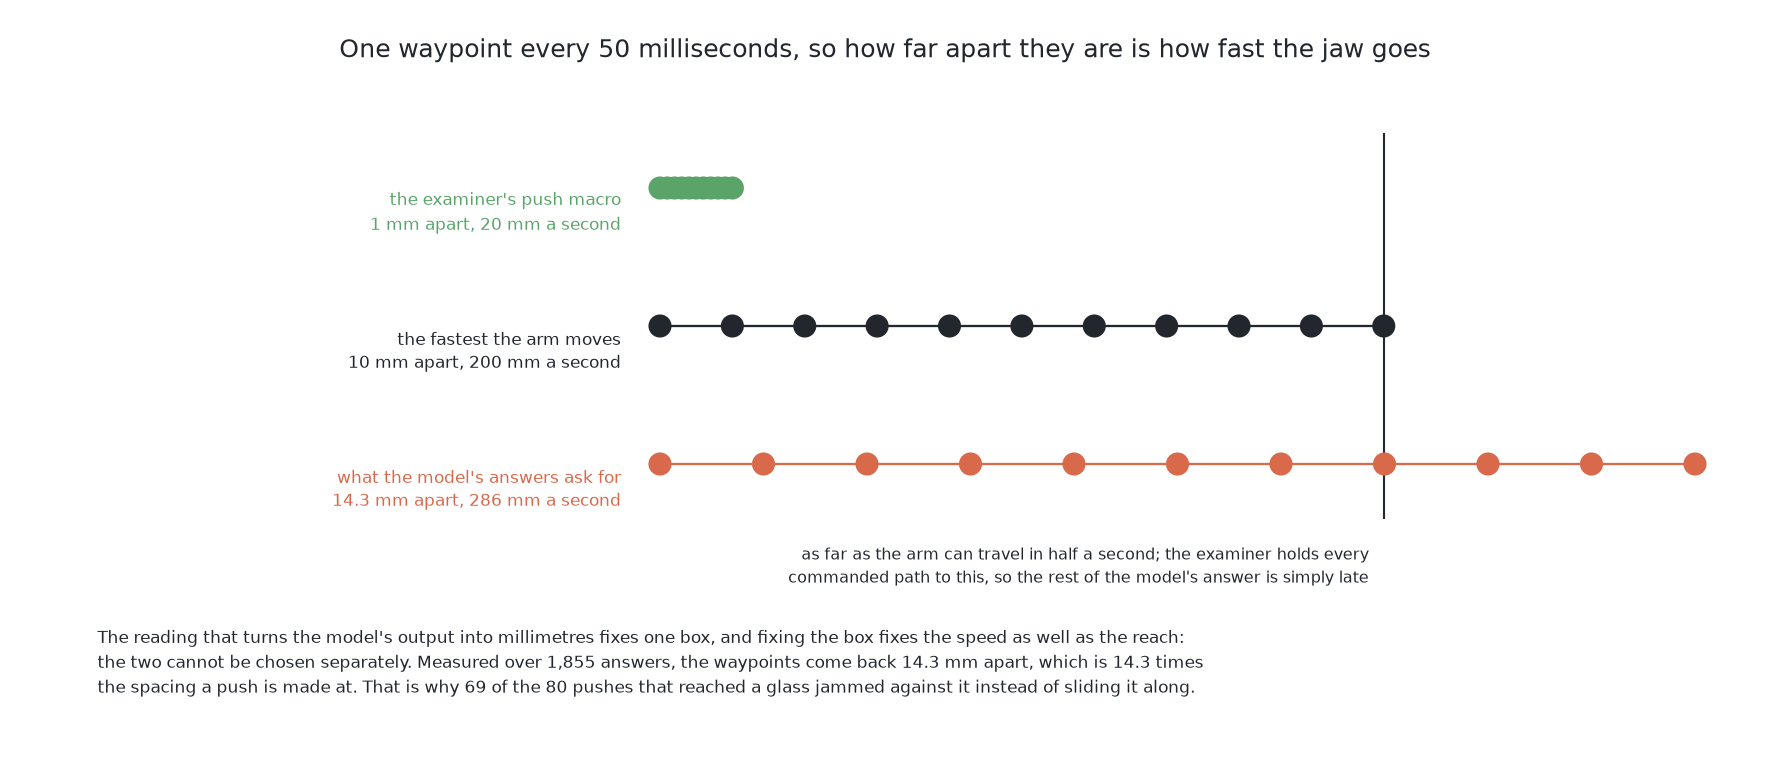
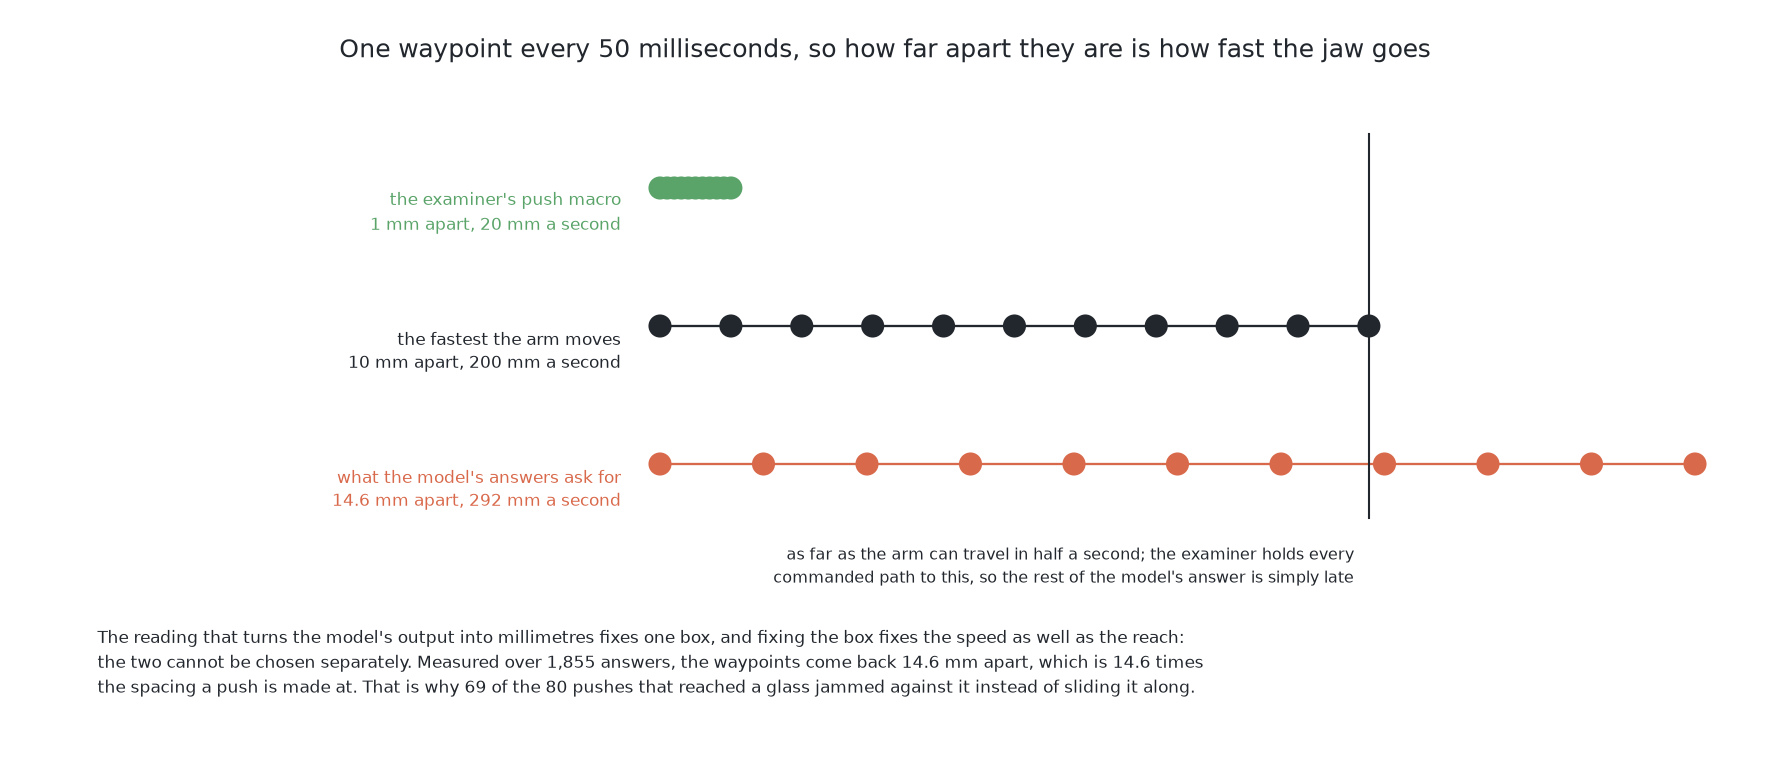
Book 9: the last figures the regenerated pictures disagreed with
Four numbers the documents quoted were still the ones measured before the real
gripper: the spacing of the borrowed model's own waypoints, how far the least
movement picture parts its pair, what the two pushes in the label picture gain,
and the scatter's description of where the six sit. Each is now what the script
that draws the picture prints.

Changed region(s): [[0.435, 0.7292, 0.7768, 0.79], [0.5282, 0.395, 0.8079, 0.4557]]

diff --git a/docs/diagrams/pushing-the-glasses-apart/make_borrowed_vla_pages.py b/docs/diagrams/pushing-the-glasses-apart/make_borrowed_vla_pages.py
@@ -73,7 +73,7 @@ CHUNK = 50                                   # the actions in one answer
 
 # 05-smolvla-as-it-downloads/asking.json, over all three evaluation runs.
 ASKED = 1855                                 # "asked"
-STEP_MM = 14.3                               # "step_mm_median"
+STEP_MM = 14.6                               # "step_mm_median"
 LOWEST_MM = 209.1                            # "lowest_mm_median"
 
 # 05-smolvla-as-it-downloads/results.json, "each"[2]: the run whose push count
@@ -137,7 +137,7 @@ def _check() -> None:
     assert PUSH_STEP_MM == 1.0, PUSH_STEP_MM
     assert TOP_STEP_MM == 10.0, TOP_STEP_MM
     assert STEP_MM > TOP_STEP_MM, (STEP_MM, TOP_STEP_MM)
-    assert round(STEP_MM / PUSH_STEP_MM, 1) == 14.3
+    assert round(STEP_MM / PUSH_STEP_MM, 1) == 14.6
     print(
         f"  the frame is {2 * HALF_FRAME_MM:.0f} mm across, centred on {VIEW_CENTRE_MM};\n"
         f"  the jaw parks at {PARK_MM} and clips to {tuple(round(v, 1) for v in CLIPPED_MM)};\n"

diff --git a/docs/09_pushing-the-glasses-apart/03_the-six-solutions/01_how-the-six-compare.md b/docs/09_pushing-the-glasses-apart/03_the-six-solutions/01_how-the-six-compare.md
@@ -118,7 +118,7 @@ has the full numbers with every column.
 | **5. [A foundation model as it downloads](06_a-foundation-model-as-it-downloads.md)** | 1 (0–1) | 48 (46–51) | 12 (10–14) | Its 48 racked glasses are exactly the 48 that already had room, so its pushes achieve nothing at all. The trajectories it returns hold the jaw about 200 mm above the table. It is not choosing badly among pushes; it is mostly not arriving at the table. That is the domain gap arriving exactly as predicted. |
 | **6. [The same model, fine-tuned here](07_the-same-model-fine-tuned-here.md)** | 1 (0–2) | 56 (50–65) | 40 (33–44) | The training brought the jaw down to the table without teaching it where to put the jaw down. About two of its pushes in three are blocked coming down, and the glasses that go over are what that costs. |
 
-![Glasses racked against glasses toppled, one point for each of the six, with the three geometry-driven solutions together in the bottom right corner and the three that produce the push themselves far away from it.](../../images/pushing-the-glasses-apart/how-the-six-compare/six-racked-against-toppled.png)
+![Glasses racked against glasses toppled, one point for each of the six: solutions 1 and 2 share a single point in the bottom right because they reach the same glasses, the world model sits far to the right and well above them, and the three that produce the push themselves are poorer on both axes at once.](../../images/pushing-the-glasses-apart/how-the-six-compare/six-racked-against-toppled.png)
 
 Three results in that table are worth more than the others.
 

diff --git a/docs/09_pushing-the-glasses-apart/08_a-foundation-model-as-it-downloads/02_the-code.md b/docs/09_pushing-the-glasses-apart/08_a-foundation-model-as-it-downloads/02_the-code.md
@@ -116,10 +116,10 @@ It has a price that is easy to miss. The examiner consumes waypoints a fixed
 period apart, 50 milliseconds, so **how far apart the waypoints are is how fast
 the jaw is being asked to travel**. Fixing the frame therefore fixes the speed
 as well as the reach, and the two cannot be chosen separately. Measured, the
-model's waypoints come back 14.3 mm apart, which asks for more than the arm's
+model's waypoints come back 14.6 mm apart, which asks for more than the arm's
 own top speed and fourteen times the speed the examiner's push macro moves at.
 
-![At the examiner's fixed waypoint period of 50 milliseconds, the spacing of the waypoints is the speed: 1 mm apart is the push macro's speed, 10 mm apart is the fastest the arm moves, and the model's own answers come back 14.3 mm apart.](../../images/pushing-the-glasses-apart/a-foundation-model-as-it-downloads/smolvla-the-spacing-is-the-speed.png)
+![At the examiner's fixed waypoint period of 50 milliseconds, the spacing of the waypoints is the speed: 1 mm apart is the push macro's speed, 10 mm apart is the fastest the arm moves, and the model's own answers come back 14.6 mm apart.](../../images/pushing-the-glasses-apart/a-foundation-model-as-it-downloads/smolvla-the-spacing-is-the-speed.png)
 
 Nothing in this solution clips that to something gentler, because a gentler
 limit would be a number chosen to make this solution look better and this

diff --git a/docs/09_pushing-the-glasses-apart/01_the-problem/04_the-target-layout.md b/docs/09_pushing-the-glasses-apart/01_the-problem/04_the-target-layout.md
@@ -139,10 +139,10 @@ room and still cannot be picked up properly.
 
 ### The glasses move as little as possible
 
-![A crowded pair of glasses at the start, then the same pair parted by moving each glass 16 mm, then the same pair parted by moving one glass 150 mm: both endings give each glass its room.](../../images/pushing-the-glasses-apart/the-target-layout/layout-least-movement.png)
+![A crowded pair of glasses at the start, then the same pair parted by moving each glass 19 mm, then the same pair parted by moving one glass 150 mm: both endings give each glass its room.](../../images/pushing-the-glasses-apart/the-target-layout/layout-least-movement.png)
 
 The middle row of the picture is a crowded pair: two narrow glasses with only
-5 mm of daylight between them. The top row parts them by moving each one 16 mm.
+5 mm of daylight between them. The top row parts them by moving each one 19 mm.
 The bottom row parts them by pushing one glass 150 mm to open table. Both
 endings satisfy the three conditions above.
 

diff --git a/docs/09_pushing-the-glasses-apart/03_the-six-solutions/03_geometry-generates-a-model-ranks.md b/docs/09_pushing-the-glasses-apart/03_the-six-solutions/03_geometry-generates-a-model-ranks.md
@@ -145,7 +145,7 @@ not the same quantity: a push that spreads a little room over three glasses
 scores higher by the first and lower by the second than one that finishes a
 single glass outright.
 
-![One table, two legal pushes on it, and the two numbers each push earns: the push that frees two glasses gains 30 mm of room over the table, and the push that frees none gains 60 mm.](../../images/pushing-the-glasses-apart/geometry-generates-a-model-ranks/ranked-the-label-is-not-the-score.png)
+![One table, two legal pushes on it, and the two numbers each push earns: the push that frees two glasses gains 42 mm of room over the table, and the push that frees none gains 60 mm.](../../images/pushing-the-glasses-apart/geometry-generates-a-model-ranks/ranked-the-label-is-not-the-score.png)
 
 Both figures in that picture are arithmetic over the examiner's own room test
 and the planner's own shortfall, and the script that drew it prints them. The

diff --git a/docs/09_pushing-the-glasses-apart/08_a-foundation-model-as-it-downloads/04_a-worked-example.md b/docs/09_pushing-the-glasses-apart/08_a-foundation-model-as-it-downloads/04_a-worked-example.md
@@ -76,7 +76,7 @@ and the measured shape of those answers is the result of this solution. The
 median answer's lowest point is 217 mm above the table. Five of this table's
 six glasses are shorter than that, so the jaw passes over them without touching
 anything. The same answer travels 868 mm across the table, which is further
-than the picture's frame is wide, in waypoints 14.3 mm apart — more than the
+than the picture's frame is wide, in waypoints 14.6 mm apart — more than the
 arm's own top speed, and fourteen times the speed a push macro moves at.
 
 So what the examiner records is a push that happened and touched nothing. That

diff --git a/docs/09_pushing-the-glasses-apart/08_a-foundation-model-as-it-downloads/03_how-it-works.md b/docs/09_pushing-the-glasses-apart/08_a-foundation-model-as-it-downloads/03_how-it-works.md
@@ -318,7 +318,7 @@ large as well as high.
 
 Of the 80 pushes in that run that did touch something, 69 jammed. That is the
 other half of the measurement and it has the same cause: the waypoints come
-back 14.3 mm apart, and the examiner consumes one every 50 milliseconds, so
+back 14.6 mm apart, and the examiner consumes one every 50 milliseconds, so
 they ask for the jaw to travel at more than the arm's own top speed and
 fourteen times the speed the push macro uses. A jaw arriving at a glass that
 fast wedges against it rather than sliding it along, and that is where the
